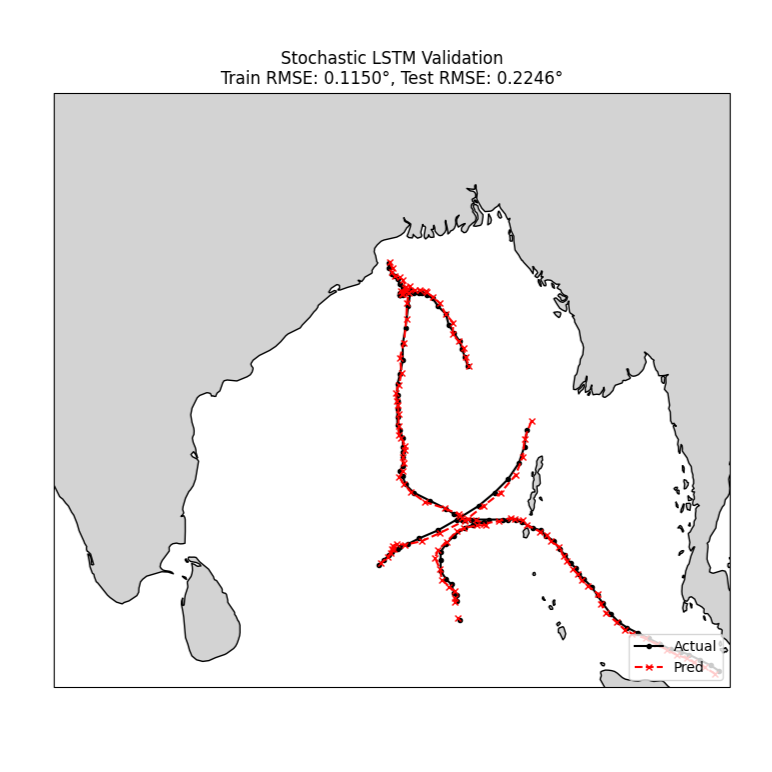
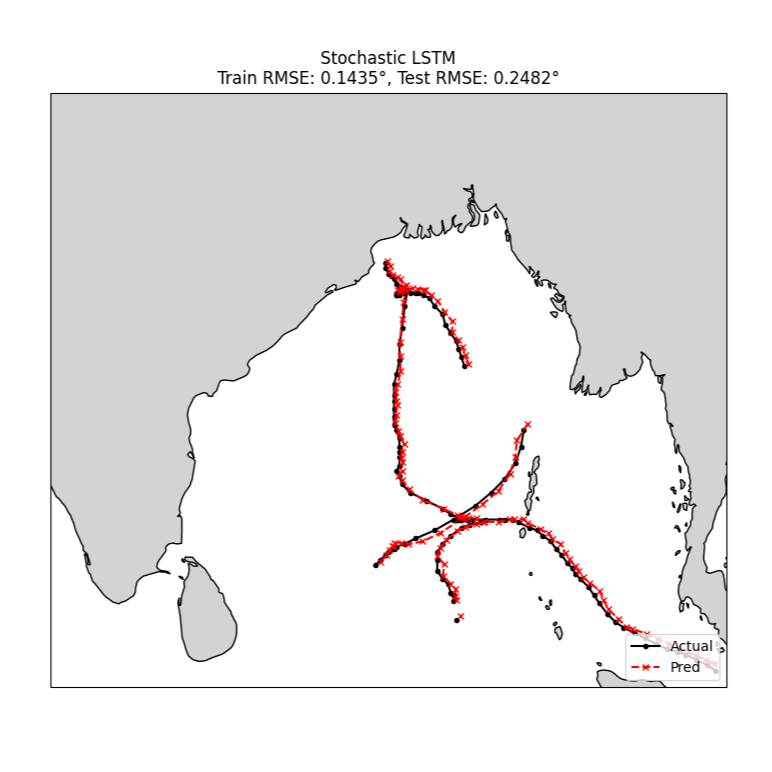
updated results with normalised RMSE

diff --git a/blstm.py b/blstm.py
@@ -111,8 +111,6 @@ model = BayesLSTM(X.shape[2], 128, 2).to(device)
 optimizer = torch.optim.Adam(model.parameters(), lr=0.005, weight_decay=1e-5)
 criterion = nn.MSELoss()
 
-
-
 print("Starting Training...")
 for epoch in tqdm(range(100), desc="Training"):
     model.train()
@@ -144,18 +142,28 @@ with torch.no_grad():
             samples = torch.stack([model(bx.to(device)) for _ in range(50)])
             all_preds.append(samples.mean(0).cpu())
         preds_concat = torch.cat(all_preds).numpy()
-        real = t_scaler.inverse_transform(pd.DataFrame(y_tensor.numpy(), columns=target_cols))
+        y_true_norm = y_tensor.numpy()
+        
+        # Calculate Normalized RMSE
+        norm_rmse = np.sqrt(np.mean((preds_concat - y_true_norm)**2))
+        
+        # Denormalize for Actual Degrees
+        real = t_scaler.inverse_transform(pd.DataFrame(y_true_norm, columns=target_cols))
         pred_real = t_scaler.inverse_transform(pd.DataFrame(preds_concat, columns=target_cols))
-        return np.sqrt(np.mean((pred_real - real)**2)), pred_real, real
+        denorm_rmse = np.sqrt(np.mean((pred_real - real)**2))
+        
+        return denorm_rmse, pred_real, real, norm_rmse
 
-    train_rmse, _, _ = get_rmse_batched(X[:split], y[:split])
-    test_rmse, p_real, y_real = get_rmse_batched(X[split:], y[split:])
+    train_rmse, _, _, train_norm_rmse = get_rmse_batched(X[:split], y[:split])
+    test_rmse, p_real, y_real, test_norm_rmse = get_rmse_batched(X[split:], y[split:])
 
     print(f"\nprior_var = {prior_var}")
     print(f"kl_weight = {kl_weight}")
     print("-" * 35)
-    print(f"Train RMSE: {train_rmse:.4f} degrees")
-    print(f"Test RMSE:  {test_rmse:.4f} degrees")
+    print(f"Train RMSE (Normalized): {train_norm_rmse:.4f}")
+    print(f"Train RMSE (Degrees):    {train_rmse:.4f}°")
+    print(f"Test RMSE (Normalized):  {test_norm_rmse:.4f}")
+    print(f"Test RMSE (Degrees):     {test_rmse:.4f}°")
     print("-" * 35)
 
 # --- CARTOPY TRAJECTORY VALIDATION ---

diff --git a/slstm.py b/slstm.py
@@ -119,21 +119,30 @@ for epoch in tqdm(range(100), desc="Training"):
 model.train() # Enable stochastic sampling
 print("\nEvaluating Model...")
 with torch.no_grad():
-    # Helper to get RMSE for a dataset
     def get_rmse(X_data, y_data):
         # 50 samples per prediction for stochastic mean
         preds = torch.stack([model(X_data.to(device)) for _ in range(50)]).mean(0).cpu().numpy()
-        real = t_scaler.inverse_transform(pd.DataFrame(y_data.numpy(), columns=target_cols))
+        y_true_norm = y_data.numpy()
+        
+        # Calculate Normalized RMSE
+        norm_rmse = np.sqrt(np.mean((preds - y_true_norm)**2))
+        
+        # Calculate Denormalized RMSE (Degrees)
+        real = t_scaler.inverse_transform(pd.DataFrame(y_true_norm, columns=target_cols))
         pred_real = t_scaler.inverse_transform(pd.DataFrame(preds, columns=target_cols))
-        return np.sqrt(np.mean((pred_real - real)**2)), pred_real, real
+        denorm_rmse = np.sqrt(np.mean((pred_real - real)**2))
+        
+        return denorm_rmse, pred_real, real, norm_rmse
 
-    train_rmse, _, _ = get_rmse(X[:split], y[:split])
-    test_rmse, p_real, y_real = get_rmse(X[split:], y[split:])
+    train_rmse, _, _, train_norm_rmse = get_rmse(X[:split], y[:split])
+    test_rmse, p_real, y_real, test_norm_rmse = get_rmse(X[split:], y[split:])
 
-    print("-" * 30)
-    print(f"Train RMSE: {train_rmse:.4f} degrees")
-    print(f"Test RMSE:  {test_rmse:.4f} degrees")
-    print("-" * 30)
+    print("-" * 35)
+    print(f"Train RMSE (Normalized): {train_norm_rmse:.4f}")
+    print(f"Train RMSE (Degrees):    {train_rmse:.4f}°")
+    print(f"Test RMSE (Normalized):  {test_norm_rmse:.4f}")
+    print(f"Test RMSE (Degrees):     {test_rmse:.4f}°")
+    print("-" * 35)
 
 # --- CARTOPY TRAJECTORY VALIDATION ---
 fig = plt.figure(figsize=(12, 8))

diff --git a/README.md b/README.md
@@ -6,12 +6,10 @@ This repository implements two variants of LSTMs to predict cyclone trajectories
 
 ## Results
 
-
-
-| Model | Train RMSE | Test RMSE |
-| :--- | :--- | :--- |
+| Model | Train RMSE (Normalized)| Test RMSE (Normalized) | Train RMSE (Degrees) | Test RMSE (Degrees) |
+| :--- | :--- | :--- | :--- | :--- |
 | Stochastic LSTM | 0.1150° | 0.2246° |
-| Bayesian LSTM | 0.6948° | 0.9129° |
+| Bayesian LSTM |0.0301 | 0.0373| 0.7370° | 0.9117° |
 
 
 ![slstm](results/slstm.png)
